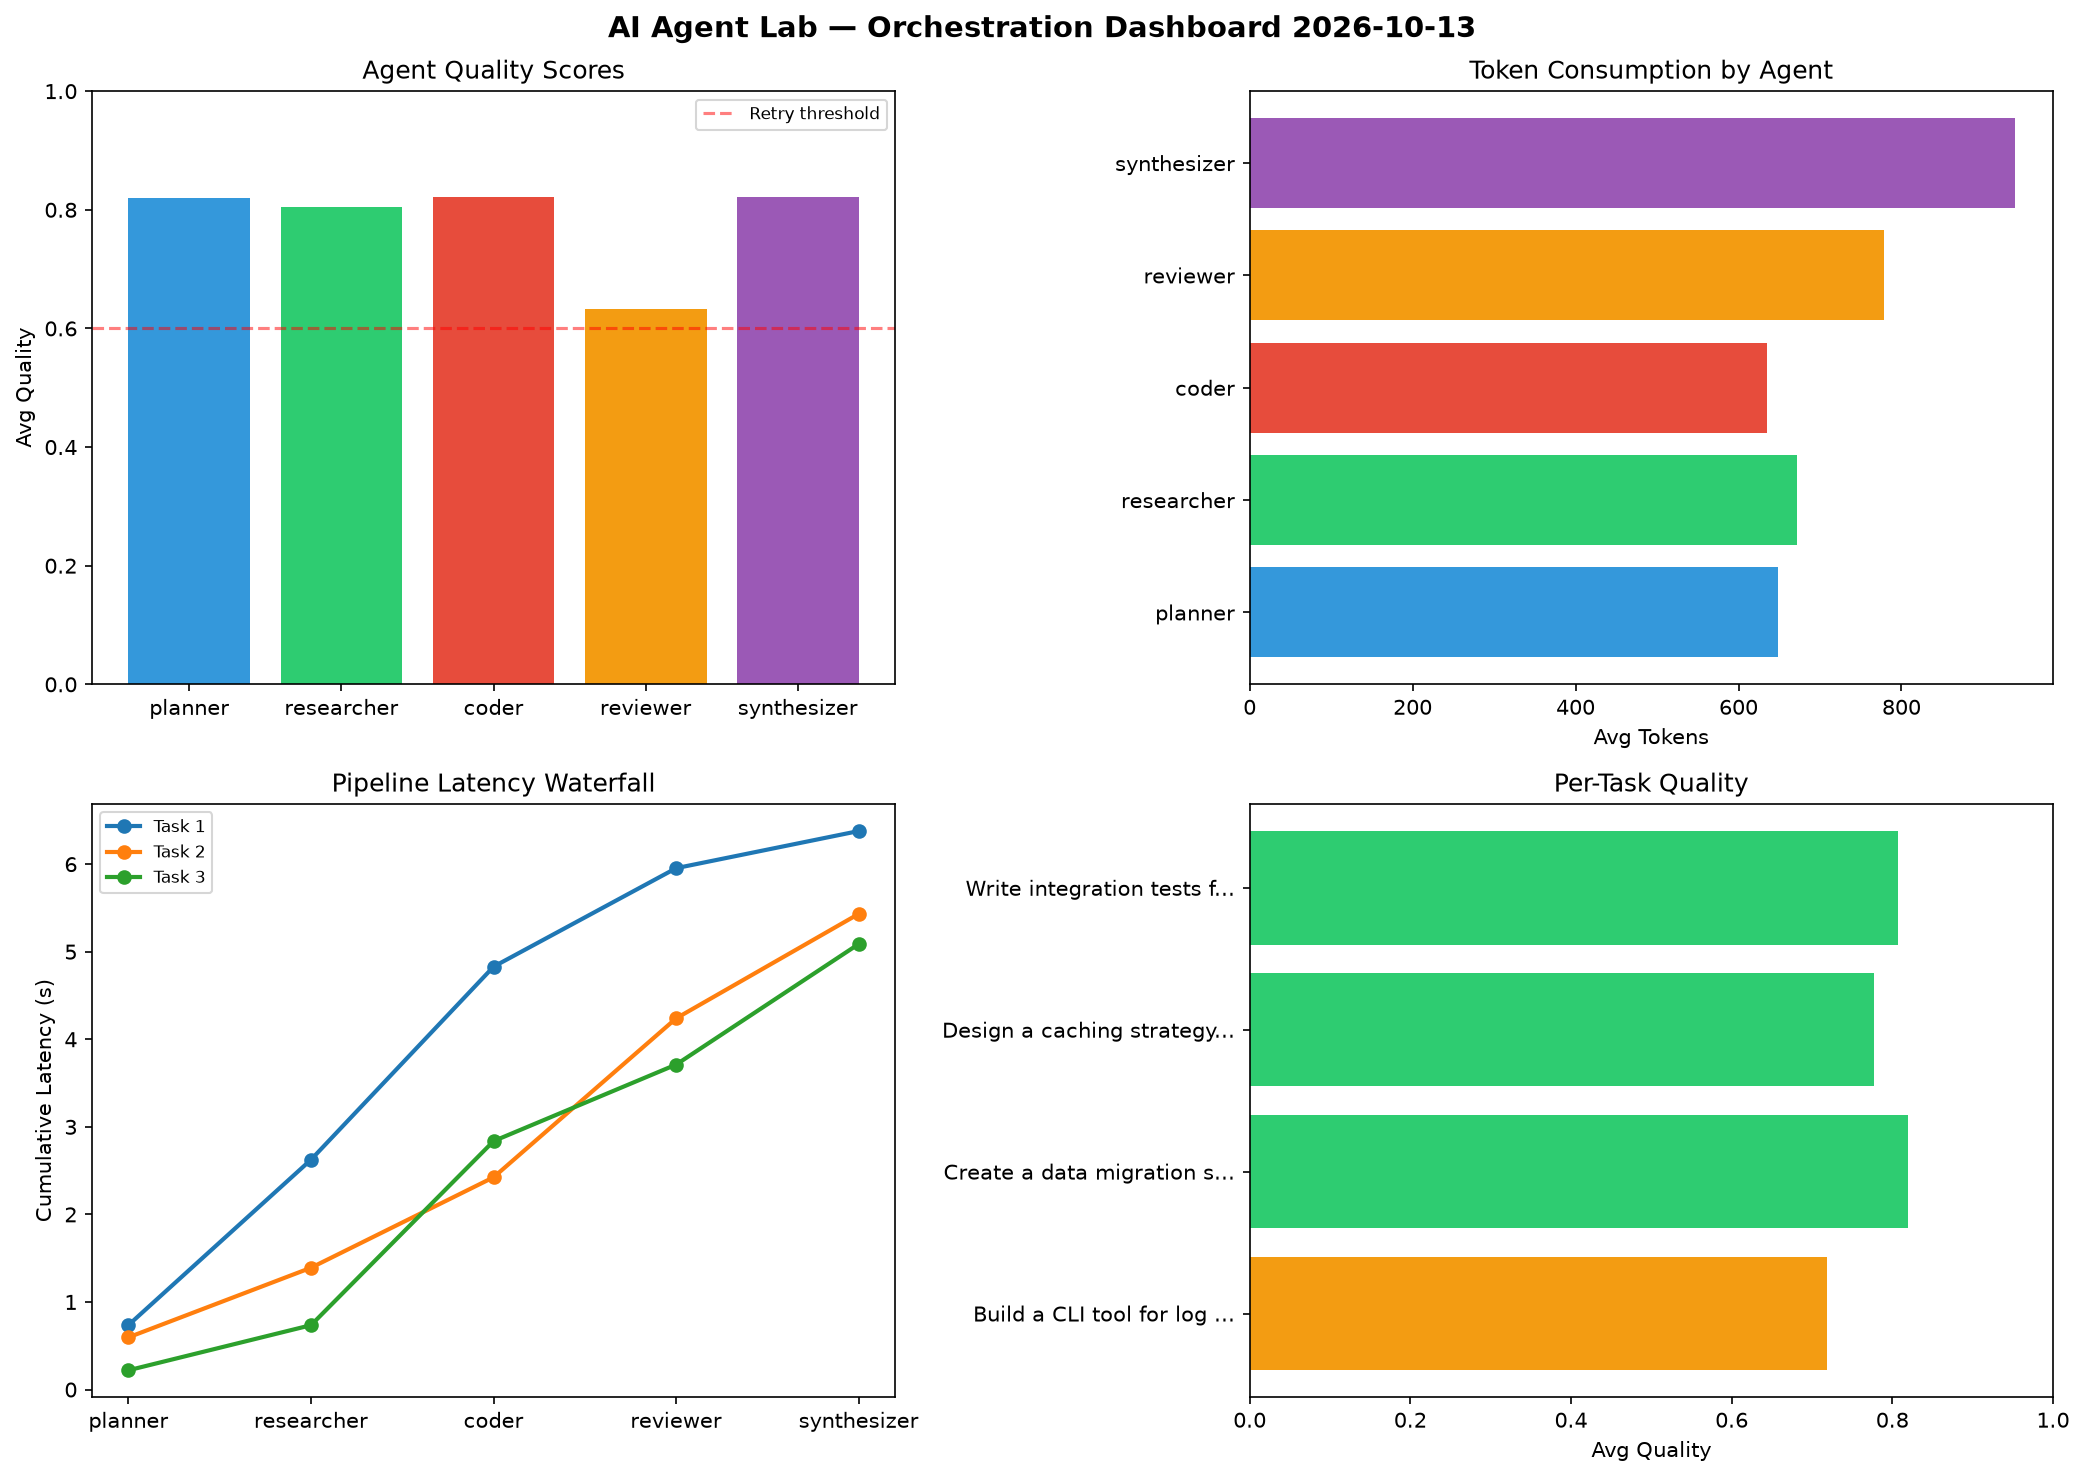
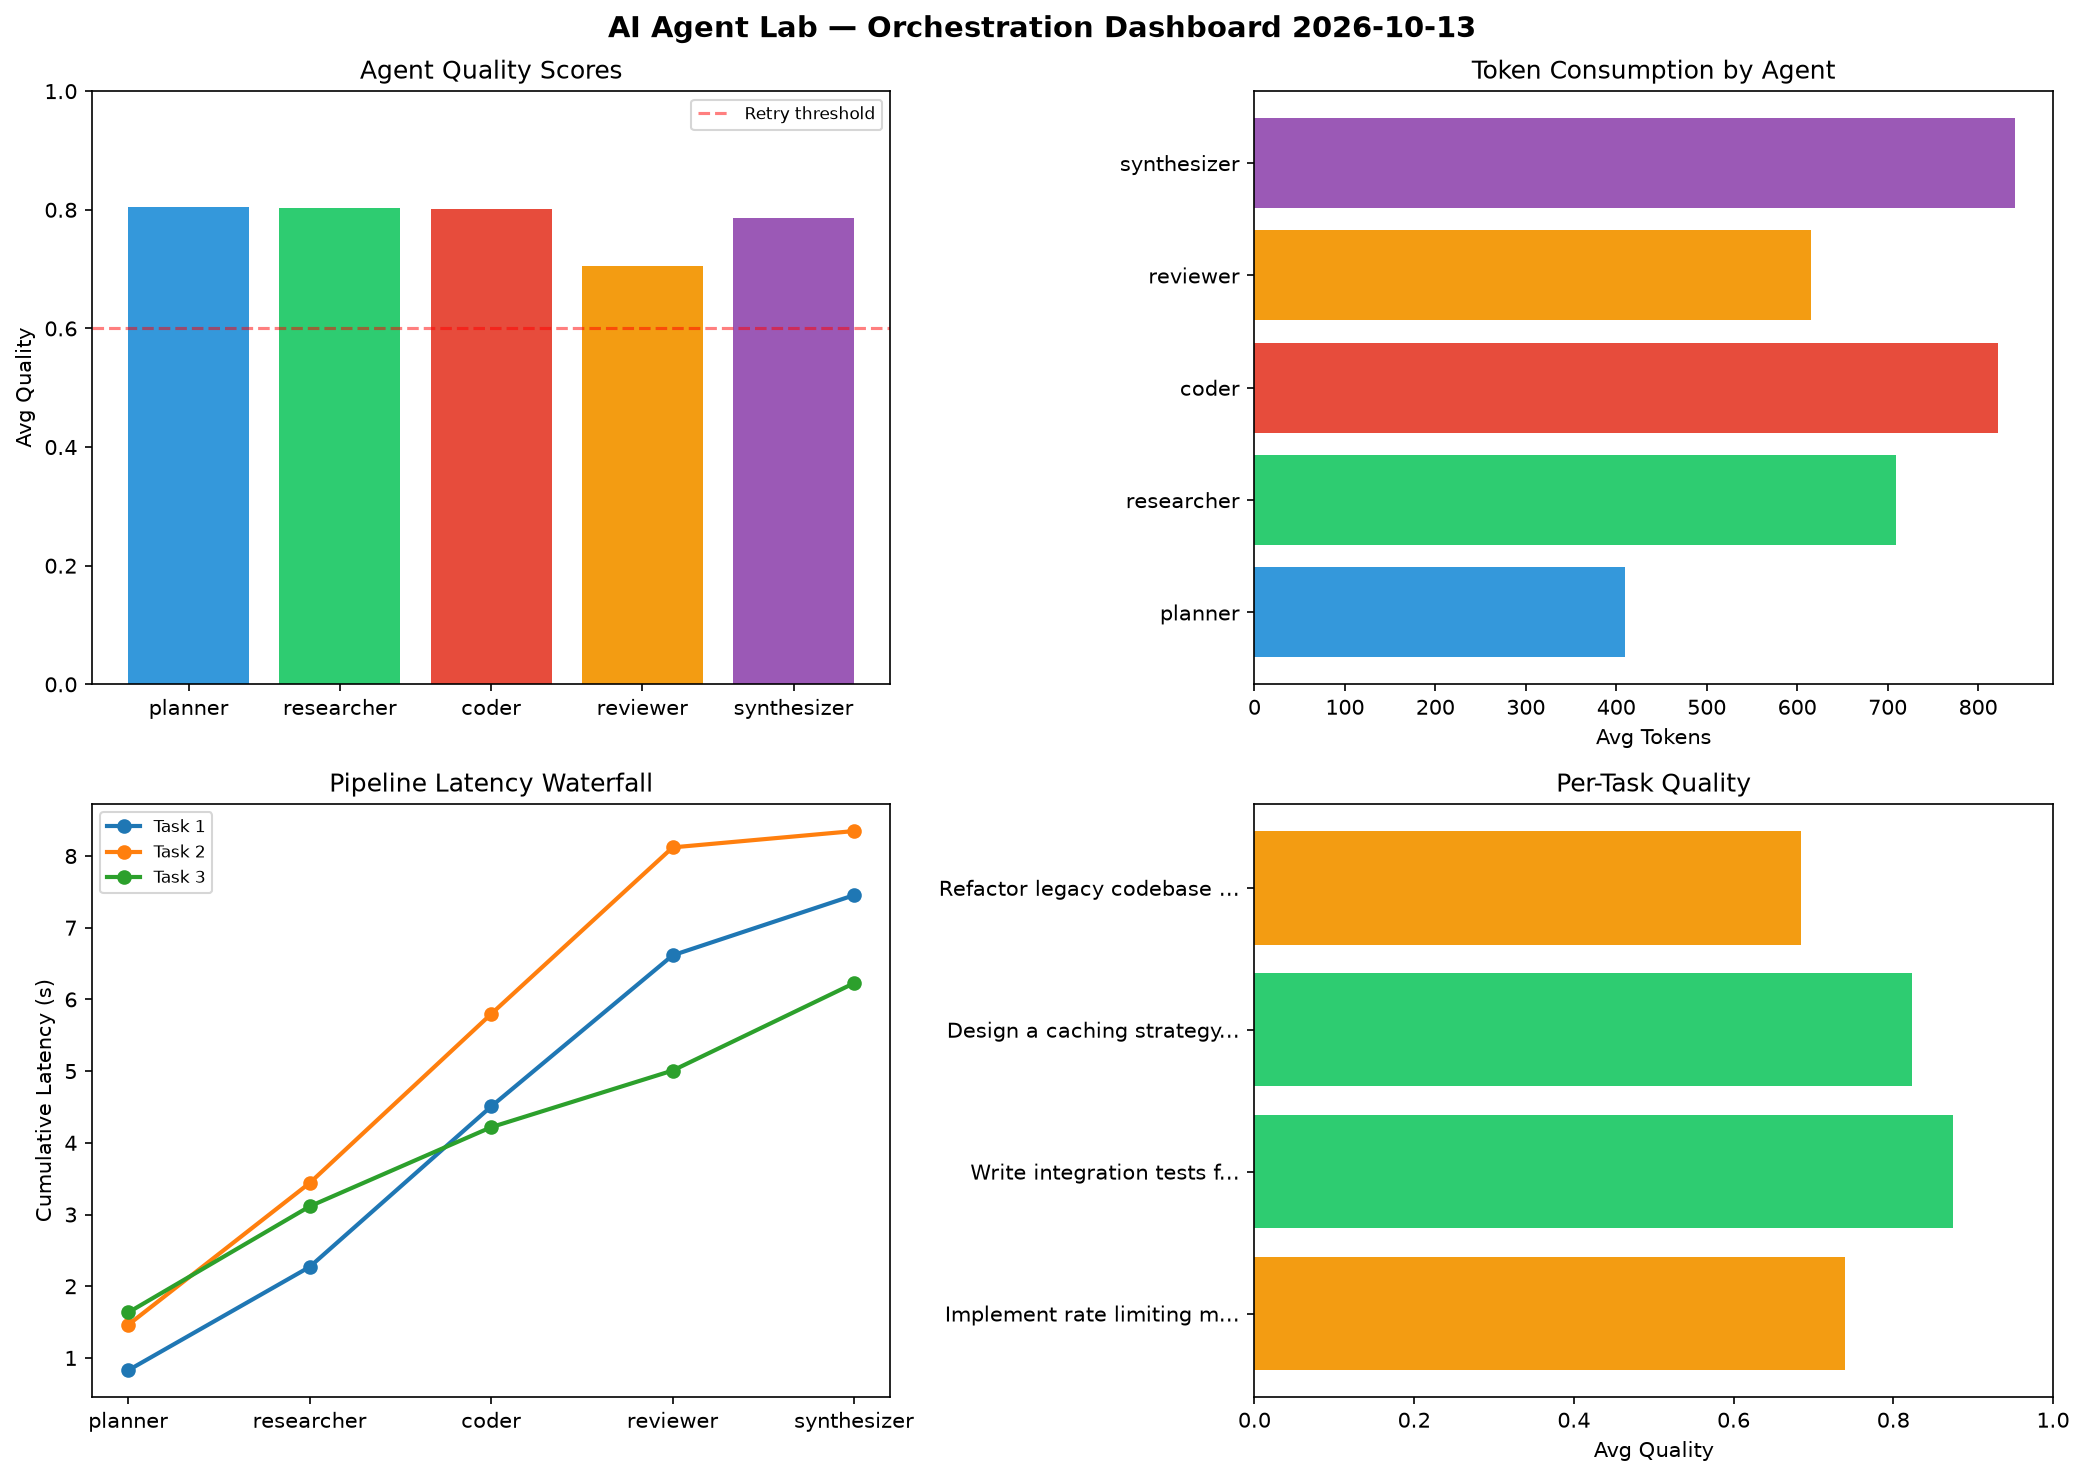
ai-agent-lab: orchestration run 2026-10-13T09:33

diff --git a/logs/2026-10-13.md b/logs/2026-10-13.md
@@ -1,6 +1,6 @@
 # AI Agent Lab — Orchestration Report 2026-10-13
 
-**Run ID:** `e244ea8eeb` | **Tasks:** 4 | **Avg Quality:** 0.78
+**Run ID:** `9203c117da` | **Tasks:** 4 | **Avg Quality:** 0.78
 
 ![Dashboard](2026-10-13_dashboard.png)
 
@@ -8,52 +8,52 @@
 
 | Metric | Value |
 |--------|-------|
-| avg_latency | 5.604 |
-| total_tokens | 14692 |
+| avg_latency | 6.602 |
+| total_tokens | 13585 |
 | avg_quality | 0.78 |
 
 ## Delta vs Yesterday
 
 | Metric | Today | Yesterday | Change |
 |--------|-------|-----------|--------|
-| avg_latency | 5.604 | 7.78 | 📉 -28.0% |
-| total_tokens | 14692 | 12660 | 📈 16.1% |
+| avg_latency | 6.602 | 7.78 | 📉 -15.1% |
+| total_tokens | 13585 | 12660 | 📈 7.3% |
 | avg_quality | 0.78 | 0.763 | 📈 2.2% |
 
 ## Pipeline Results
 
-### Build a CLI tool for log analysis
+### Implement rate limiting middleware
 | Agent | Quality | Latency | Tokens | Status |
 |-------|---------|---------|--------|--------|
-| planner | 0.656 | 0.736s | 530 | success |
-| researcher | 0.551 | 1.889s | 691 | needs_retry |
-| coder | 0.896 | 2.204s | 255 | success |
-| reviewer | 0.617 | 1.125s | 1171 | success |
-| synthesizer | 0.875 | 0.424s | 871 | success |
-
-### Create a data migration script for schema v2
-| Agent | Quality | Latency | Tokens | Status |
-|-------|---------|---------|--------|--------|
-| planner | 0.657 | 0.596s | 504 | success |
-| researcher | 0.997 | 0.795s | 829 | success |
-| coder | 0.858 | 1.033s | 955 | success |
-| reviewer | 0.658 | 1.815s | 591 | success |
-| synthesizer | 0.925 | 1.193s | 1038 | success |
-
-### Design a caching strategy for high-traffic endpoints
-| Agent | Quality | Latency | Tokens | Status |
-|-------|---------|---------|--------|--------|
-| planner | 0.991 | 0.22s | 910 | success |
-| researcher | 0.888 | 0.515s | 713 | success |
-| coder | 0.905 | 2.102s | 676 | success |
-| reviewer | 0.593 | 0.874s | 807 | needs_retry |
-| synthesizer | 0.507 | 1.377s | 928 | needs_retry |
+| planner | 0.901 | 0.828s | 435 | success |
+| researcher | 0.786 | 1.442s | 652 | success |
+| coder | 0.846 | 2.237s | 908 | success |
+| reviewer | 0.506 | 2.108s | 313 | needs_retry |
+| synthesizer | 0.655 | 0.839s | 970 | success |
 
 ### Write integration tests for payment processing module
 | Agent | Quality | Latency | Tokens | Status |
 |-------|---------|---------|--------|--------|
-| planner | 0.975 | 0.277s | 649 | success |
-| researcher | 0.786 | 2.095s | 454 | success |
-| coder | 0.629 | 0.668s | 654 | success |
-| reviewer | 0.663 | 1.894s | 547 | success |
-| synthesizer | 0.982 | 0.585s | 919 | success |
+| planner | 0.781 | 1.462s | 543 | success |
+| researcher | 0.979 | 1.978s | 856 | success |
+| coder | 0.943 | 2.357s | 814 | success |
+| reviewer | 0.737 | 2.323s | 466 | success |
+| synthesizer | 0.933 | 0.228s | 346 | success |
+
+### Design a caching strategy for high-traffic endpoints
+| Agent | Quality | Latency | Tokens | Status |
+|-------|---------|---------|--------|--------|
+| planner | 0.941 | 1.634s | 279 | success |
+| researcher | 0.815 | 1.48s | 522 | success |
+| coder | 0.802 | 1.104s | 758 | success |
+| reviewer | 0.819 | 0.79s | 504 | success |
+| synthesizer | 0.741 | 1.219s | 1122 | success |
+
+### Refactor legacy codebase to use dependency injection
+| Agent | Quality | Latency | Tokens | Status |
+|-------|---------|---------|--------|--------|
+| planner | 0.599 | 0.457s | 382 | needs_retry |
+| researcher | 0.633 | 0.878s | 806 | success |
+| coder | 0.612 | 1.336s | 807 | success |
+| reviewer | 0.762 | 0.627s | 1177 | success |
+| synthesizer | 0.815 | 1.082s | 925 | success |
